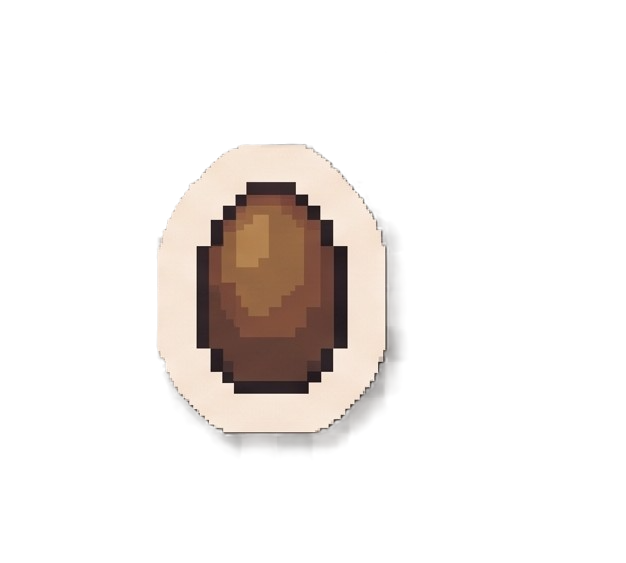
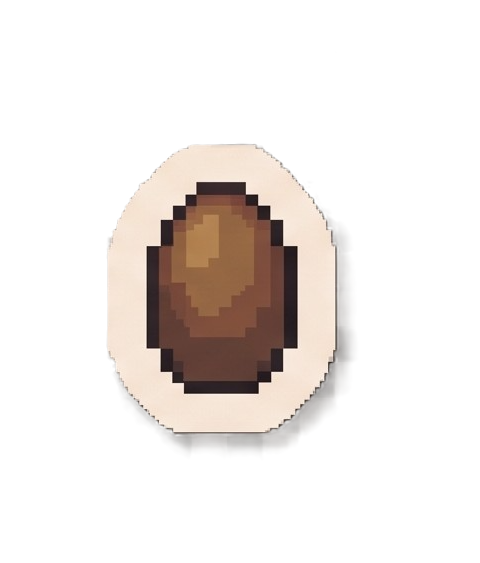
feat: 나무 PNG 전체 적용, 달력 성장 스티커, 도감 전체해금 버튼, 씨앗 크롭

Changed region(s): [[0.2188, 0.2416, 0.75, 0.8153], [0.3438, 0.7549, 0.375, 0.7851]]

diff --git a/src/src/app/diary/page.tsx b/src/src/app/diary/page.tsx
@@ -1,15 +1,24 @@
 'use client';
 
-import { useState } from 'react';
+import { useState, useMemo } from 'react';
+import Image from 'next/image';
 import Layout from '@/components/layout/Layout';
 import { useMoodStore } from '@/store/useMoodStore';
 import { EMOTIONS } from '@/constants/emotions';
+import { TREE_MAP } from '@/constants/trees';
 import { DiaryEntry } from '@/store/types';
 import { useHydration } from '@/store/useHydration';
 
+function getStageImage(dayInCycle: number): string {
+  if (dayInCycle <= 2) return '/trees/씨앗.png';
+  if (dayInCycle <= 4) return '/trees/새싹.png';
+  if (dayInCycle <= 6) return '/trees/묘목.png';
+  return '/trees/묘목.png';
+}
+
 export default function DiaryPage() {
   const hydrated = useHydration();
-  const { entries } = useMoodStore();
+  const { entries, cycles } = useMoodStore();
   const [currentDate, setCurrentDate] = useState(new Date());
   const [selectedEntry, setSelectedEntry] = useState<DiaryEntry | null>(null);
 
@@ -21,6 +30,24 @@ export default function DiaryPage() {
     const [y, m] = e.date.split('-').map(Number);
     return y === year && m === month;
   });
+
+  // 각 entry의 사이클 내 일차 계산
+  const entryDayMap = useMemo(() => {
+    const map: Record<string, { dayInCycle: number; treeType: string | null }> = {};
+    monthEntries.forEach((entry) => {
+      const cycle = cycles.find((c) => c.id === entry.treeCycleId);
+      // 같은 사이클의 모든 entry를 날짜순 정렬해서 인덱스 찾기
+      const cycleEntries = entries
+        .filter((e) => e.treeCycleId === entry.treeCycleId)
+        .sort((a, b) => a.date.localeCompare(b.date));
+      const idx = cycleEntries.findIndex((e) => e.id === entry.id);
+      map[entry.date] = {
+        dayInCycle: idx + 1,
+        treeType: cycle?.harvested ? cycle.treeType : null,
+      };
+    });
+    return map;
+  }, [monthEntries, cycles, entries]);
 
   // 기록된 날짜 Set
   const recordedDates = new Set(monthEntries.map((e) => parseInt(e.date.split('-')[2])));
@@ -77,7 +104,7 @@ export default function DiaryPage() {
           </div>
           <div className="grid grid-cols-7 gap-1">
             {Array.from({ length: firstDay }, (_, i) => (
-              <div key={`empty-${i}`} className="h-9" />
+              <div key={`empty-${i}`} className="h-12" />
             ))}
             {Array.from({ length: daysInMonth }, (_, i) => {
               const day = i + 1;
@@ -87,17 +114,45 @@ export default function DiaryPage() {
                 month === new Date().getMonth() + 1 &&
                 year === new Date().getFullYear();
 
+              const dateStr = `${year}-${String(month).padStart(2, '0')}-${String(day).padStart(2, '0')}`;
+              const dayInfo = entryDayMap[dateStr];
+
+              // 이미지 결정
+              let stageImage: string | null = null;
+              if (dayInfo) {
+                if (dayInfo.treeType) {
+                  // 수확 완료된 사이클 → 나무 이미지
+                  const tree = TREE_MAP[dayInfo.treeType];
+                  stageImage = tree?.image ?? null;
+                } else {
+                  // 성장 중 → 단계 이미지
+                  stageImage = getStageImage(dayInfo.dayInCycle);
+                }
+              }
+
               return (
                 <div
                   key={day}
-                  className={`h-9 flex items-center justify-center rounded-full text-sm relative ${
+                  className={`h-12 flex flex-col items-center justify-between py-1 rounded-lg text-xs ${
                     isToday ? 'font-bold text-green-600' : 'text-[#4A3728]'
                   }`}
                 >
-                  {day}
-                  {hasRecord && (
-                    <span className="absolute bottom-0.5 w-1.5 h-1.5 bg-green-500 rounded-full" />
-                  )}
+                  <span>{day}</span>
+                  <div className="w-5 h-5 flex items-center justify-center">
+                    {stageImage ? (
+                      <Image
+                        src={stageImage}
+                        alt=""
+                        width={18}
+                        height={20}
+                        className="object-contain"
+                      />
+                    ) : hasRecord ? (
+                      <span className="w-1.5 h-1.5 bg-green-500 rounded-full" />
+                    ) : (
+                      <div />
+                    )}
+                  </div>
                 </div>
               );
             })}

diff --git a/src/src/constants/trees.ts b/src/src/constants/trees.ts
@@ -5,6 +5,7 @@ export interface TreeType {
   name: string;
   nameEn: string;
   emoji: string;
+  image: string;
   emotionId: EmotionId;
   keywords: string[];
   description: string;
@@ -16,6 +17,7 @@ export const TREES: TreeType[] = [
     name: '벚나무',
     nameEn: 'Cherry Blossom',
     emoji: '🌸',
+    image: '/trees/벚나무.png',
     emotionId: 'joy',
     keywords: ['기쁨', '설렘', '관계', '새로운 경험'],
     description: '새로운 순간과 사람들에게서 즐거움을 많이 발견한 한 주였습니다.',
@@ -25,6 +27,7 @@ export const TREES: TreeType[] = [
     name: '소나무',
     nameEn: 'Pine',
     emoji: '🌲',
+    image: '/trees/소나무.png',
     emotionId: 'calm',
     keywords: ['편안함', '안정감', '꾸준함', '차분함'],
     description: '자신의 리듬을 지키며 마음을 돌본 한 주였습니다.',
@@ -34,6 +37,7 @@ export const TREES: TreeType[] = [
     name: '참나무',
     nameEn: 'Oak',
     emoji: '🌳',
+    image: '/trees/참나무.png',
     emotionId: 'proud',
     keywords: ['성장', '도전', '성취', '문제 해결'],
     description: '어려움 속에서도 배우고 앞으로 나아가려는 모습이 많이 나타난 한 주였습니다.',
@@ -43,6 +47,7 @@ export const TREES: TreeType[] = [
     name: '버드나무',
     nameEn: 'Willow',
     emoji: '🌿',
+    image: '/trees/버드나무.png',
     emotionId: 'sad',
     keywords: ['위로', '공감', '감수성', '치유'],
     description: '깊은 감정을 느끼며 스스로를 위로한 한 주였습니다.',
@@ -52,6 +57,7 @@ export const TREES: TreeType[] = [
     name: '자작나무',
     nameEn: 'Birch',
     emoji: '🌾',
+    image: '/trees/자작나무.png',
     emotionId: 'anxious',
     keywords: ['용기', '극복', '인내', '희망'],
     description: '불안 속에서도 앞으로 나아가려는 용기를 보여준 한 주였습니다.',
@@ -61,6 +67,7 @@ export const TREES: TreeType[] = [
     name: '단풍나무',
     nameEn: 'Maple',
     emoji: '🍁',
+    image: '/trees/단풍나무.png',
     emotionId: 'angry',
     keywords: ['자기성찰', '변화', '에너지', '솔직함'],
     description: '자신의 감정에 솔직하게 마주한 한 주였습니다.',
@@ -70,6 +77,7 @@ export const TREES: TreeType[] = [
     name: '은행나무',
     nameEn: 'Ginkgo',
     emoji: '💛',
+    image: '/trees/은행.png',
     emotionId: 'regret',
     keywords: ['성숙', '받아들임', '배움', '감사'],
     description: '아쉬움을 통해 새로운 배움을 얻은 한 주였습니다.',
@@ -79,6 +87,7 @@ export const TREES: TreeType[] = [
     name: '대나무',
     nameEn: 'Bamboo',
     emoji: '🎋',
+    image: '/trees/대나무.png',
     emotionId: 'neutral',
     keywords: ['평온', '균형', '관조', '여유'],
     description: '담담하게 자신을 바라보며 균형을 유지한 한 주였습니다.',

diff --git a/src/src/app/collection/page.tsx b/src/src/app/collection/page.tsx
@@ -1,6 +1,7 @@
 'use client';
 
 import Link from 'next/link';
+import Image from 'next/image';
 import Layout from '@/components/layout/Layout';
 import { useMoodStore } from '@/store/useMoodStore';
 import { TREE_MAP } from '@/constants/trees';
@@ -25,10 +26,12 @@ export default function CollectionPage() {
                 <Link
                   key={item.treeType}
                   href={`/collection/${item.cycleIds[item.cycleIds.length - 1]}`}
-                  className="bg-white rounded-2xl p-5 flex flex-col items-center gap-2 shadow-sm hover:shadow-md transition-shadow"
+                  className="bg-white rounded-2xl p-4 flex flex-col items-center gap-2 shadow-sm hover:shadow-md transition-shadow"
                 >
-                  <span className="text-4xl">{tree.emoji}</span>
-                  <p className="font-semibold text-[#4A3728]">{tree.name}</p>
+                  <div className="w-full h-24 flex items-center justify-center">
+                    <Image src={tree.image} alt={tree.name} width={80} height={80} className="object-contain max-h-24" />
+                  </div>
+                  <p className="font-semibold text-[#4A3728] text-sm">{tree.name}</p>
                   <p className="text-xs text-green-600">획득 완료</p>
                   {item.count > 1 && (
                     <p className="text-xs text-[#B8A080]">× {item.count}</p>
@@ -41,11 +44,12 @@ export default function CollectionPage() {
             return (
               <div
                 key={item.treeType}
-                className="bg-gray-50 rounded-2xl p-5 flex flex-col items-center gap-2 opacity-60"
+                className="bg-gray-50 rounded-2xl p-4 flex flex-col items-center gap-2 opacity-60"
               >
-                <span className="text-4xl">🔒</span>
-                <p className="font-semibold text-gray-400">???</p>
-                <p className="text-xs text-gray-400">아직 만나지 못했어요</p>
+                <div className="w-full h-24 flex items-center justify-center">
+                  <span className="text-4xl">🔒</span>
+                </div>
+                <p className="font-semibold text-gray-400 text-sm">???</p>
               </div>
             );
           })}

diff --git a/src/src/app/page.tsx b/src/src/app/page.tsx
@@ -1,6 +1,7 @@
 'use client';
 
 import { useEffect } from 'react';
+import Image from 'next/image';
 import Layout from '@/components/layout/Layout';
 import TreeDisplay from '@/components/home/TreeDisplay';
 import DayProgress from '@/components/home/DayProgress';
@@ -57,9 +58,13 @@ export default function HomePage() {
             </p>
             <DayProgress currentDay={7} />
             <div className="flex flex-col items-center gap-2">
-              <div className="text-[120px] leading-none">
-                {harvestedTree?.emoji ?? '🌳'}
-              </div>
+              <Image
+                src={harvestedTree?.image ?? '/trees/소나무.png'}
+                alt={harvestedTree?.name ?? '나무'}
+                width={150}
+                height={150}
+                className="object-contain"
+              />
               <p className="text-sm text-[#B8A080]">{harvestedTree?.name}</p>
             </div>
             <div className="w-full max-w-xs py-4 bg-green-100 text-green-700 rounded-2xl font-medium text-center">

diff --git a/src/src/app/collection/[cycleId]/page.tsx b/src/src/app/collection/[cycleId]/page.tsx
@@ -1,6 +1,7 @@
 'use client';
 
 import { useParams, useRouter } from 'next/navigation';
+import Image from 'next/image';
 import Layout from '@/components/layout/Layout';
 import { useMoodStore } from '@/store/useMoodStore';
 import { TREE_MAP } from '@/constants/trees';
@@ -39,7 +40,7 @@ export default function CollectionDetailPage() {
 
         {/* 나무 정보 */}
         <div className="bg-white rounded-2xl p-6 flex flex-col items-center gap-3 mb-6">
-          <span className="text-6xl">{tree?.emoji ?? '🌳'}</span>
+          <Image src={tree?.image ?? '/trees/소나무.png'} alt={tree?.name ?? '나무'} width={100} height={100} className="object-contain" />
           <h1 className="text-xl font-bold text-[#4A3728]">{tree?.name}</h1>
           <p className="text-sm text-[#8B7355]">{tree?.nameEn}</p>
           <p className="text-xs text-[#B8A080]">수확일: {cycle.startDate}</p>

diff --git a/src/src/app/complete/CompleteContent.tsx b/src/src/app/complete/CompleteContent.tsx
@@ -2,6 +2,7 @@
 
 import { useEffect, useState, useRef } from 'react';
 import { useRouter } from 'next/navigation';
+import Image from 'next/image';
 import { useMoodStore } from '@/store/useMoodStore';
 import { TREE_MAP } from '@/constants/trees';
 import { AiWeeklyResult } from '@/store/types';
@@ -106,7 +107,7 @@ export default function CompleteContent() {
 
         {/* 나무 공개 */}
         <div className="flex flex-col items-center gap-3 bg-white rounded-2xl p-8 w-full shadow-sm">
-          <span className="text-7xl">{tree?.emoji ?? '🌳'}</span>
+          <Image src={tree?.image ?? '/trees/소나무.png'} alt={tree?.name ?? '나무'} width={120} height={120} className="object-contain" />
           <h2 className="text-2xl font-bold text-[#4A3728]">
             {tree?.name ?? weeklyResult.treeType}
           </h2>

diff --git a/src/src/components/home/DevTools.tsx b/src/src/components/home/DevTools.tsx
@@ -3,7 +3,7 @@
 import { useMoodStore } from '@/store/useMoodStore';
 
 export default function DevTools() {
-  const { advanceDay, generateTestData, resetAll } = useMoodStore();
+  const { advanceDay, generateTestData, unlockAllTrees, resetAll } = useMoodStore();
 
   if (process.env.NODE_ENV !== 'development') return null;
 
@@ -21,6 +21,12 @@ export default function DevTools() {
         className="text-xs bg-yellow-200 px-3 py-1.5 rounded-lg hover:bg-yellow-300"
       >
         테스트 데이터 생성
+      </button>
+      <button
+        onClick={unlockAllTrees}
+        className="text-xs bg-green-200 px-3 py-1.5 rounded-lg hover:bg-green-300"
+      >
+        도감 전체 해금
       </button>
       <button
         onClick={resetAll}

diff --git a/src/src/store/useMoodStore.ts b/src/src/store/useMoodStore.ts
@@ -34,6 +34,7 @@ interface MoodState {
   // Dev tools
   advanceDay: () => void;
   generateTestData: () => void;
+  unlockAllTrees: () => void;
   resetAll: () => void;
 }
 
@@ -232,6 +233,18 @@ export const useMoodStore = create<MoodState>()(
           cycles: state.cycles.map((c) =>
             c.id === activeCycle!.id ? { ...c, currentDay: 6 } : c
           ),
+        }));
+      },
+
+      unlockAllTrees: () => {
+        const today = getToday(get().dayOffset);
+        set((state) => ({
+          collection: state.collection.map((col) => ({
+            ...col,
+            unlocked: true,
+            unlockedAt: col.unlockedAt || today,
+            count: col.count || 1,
+          })),
         }));
       },
 
